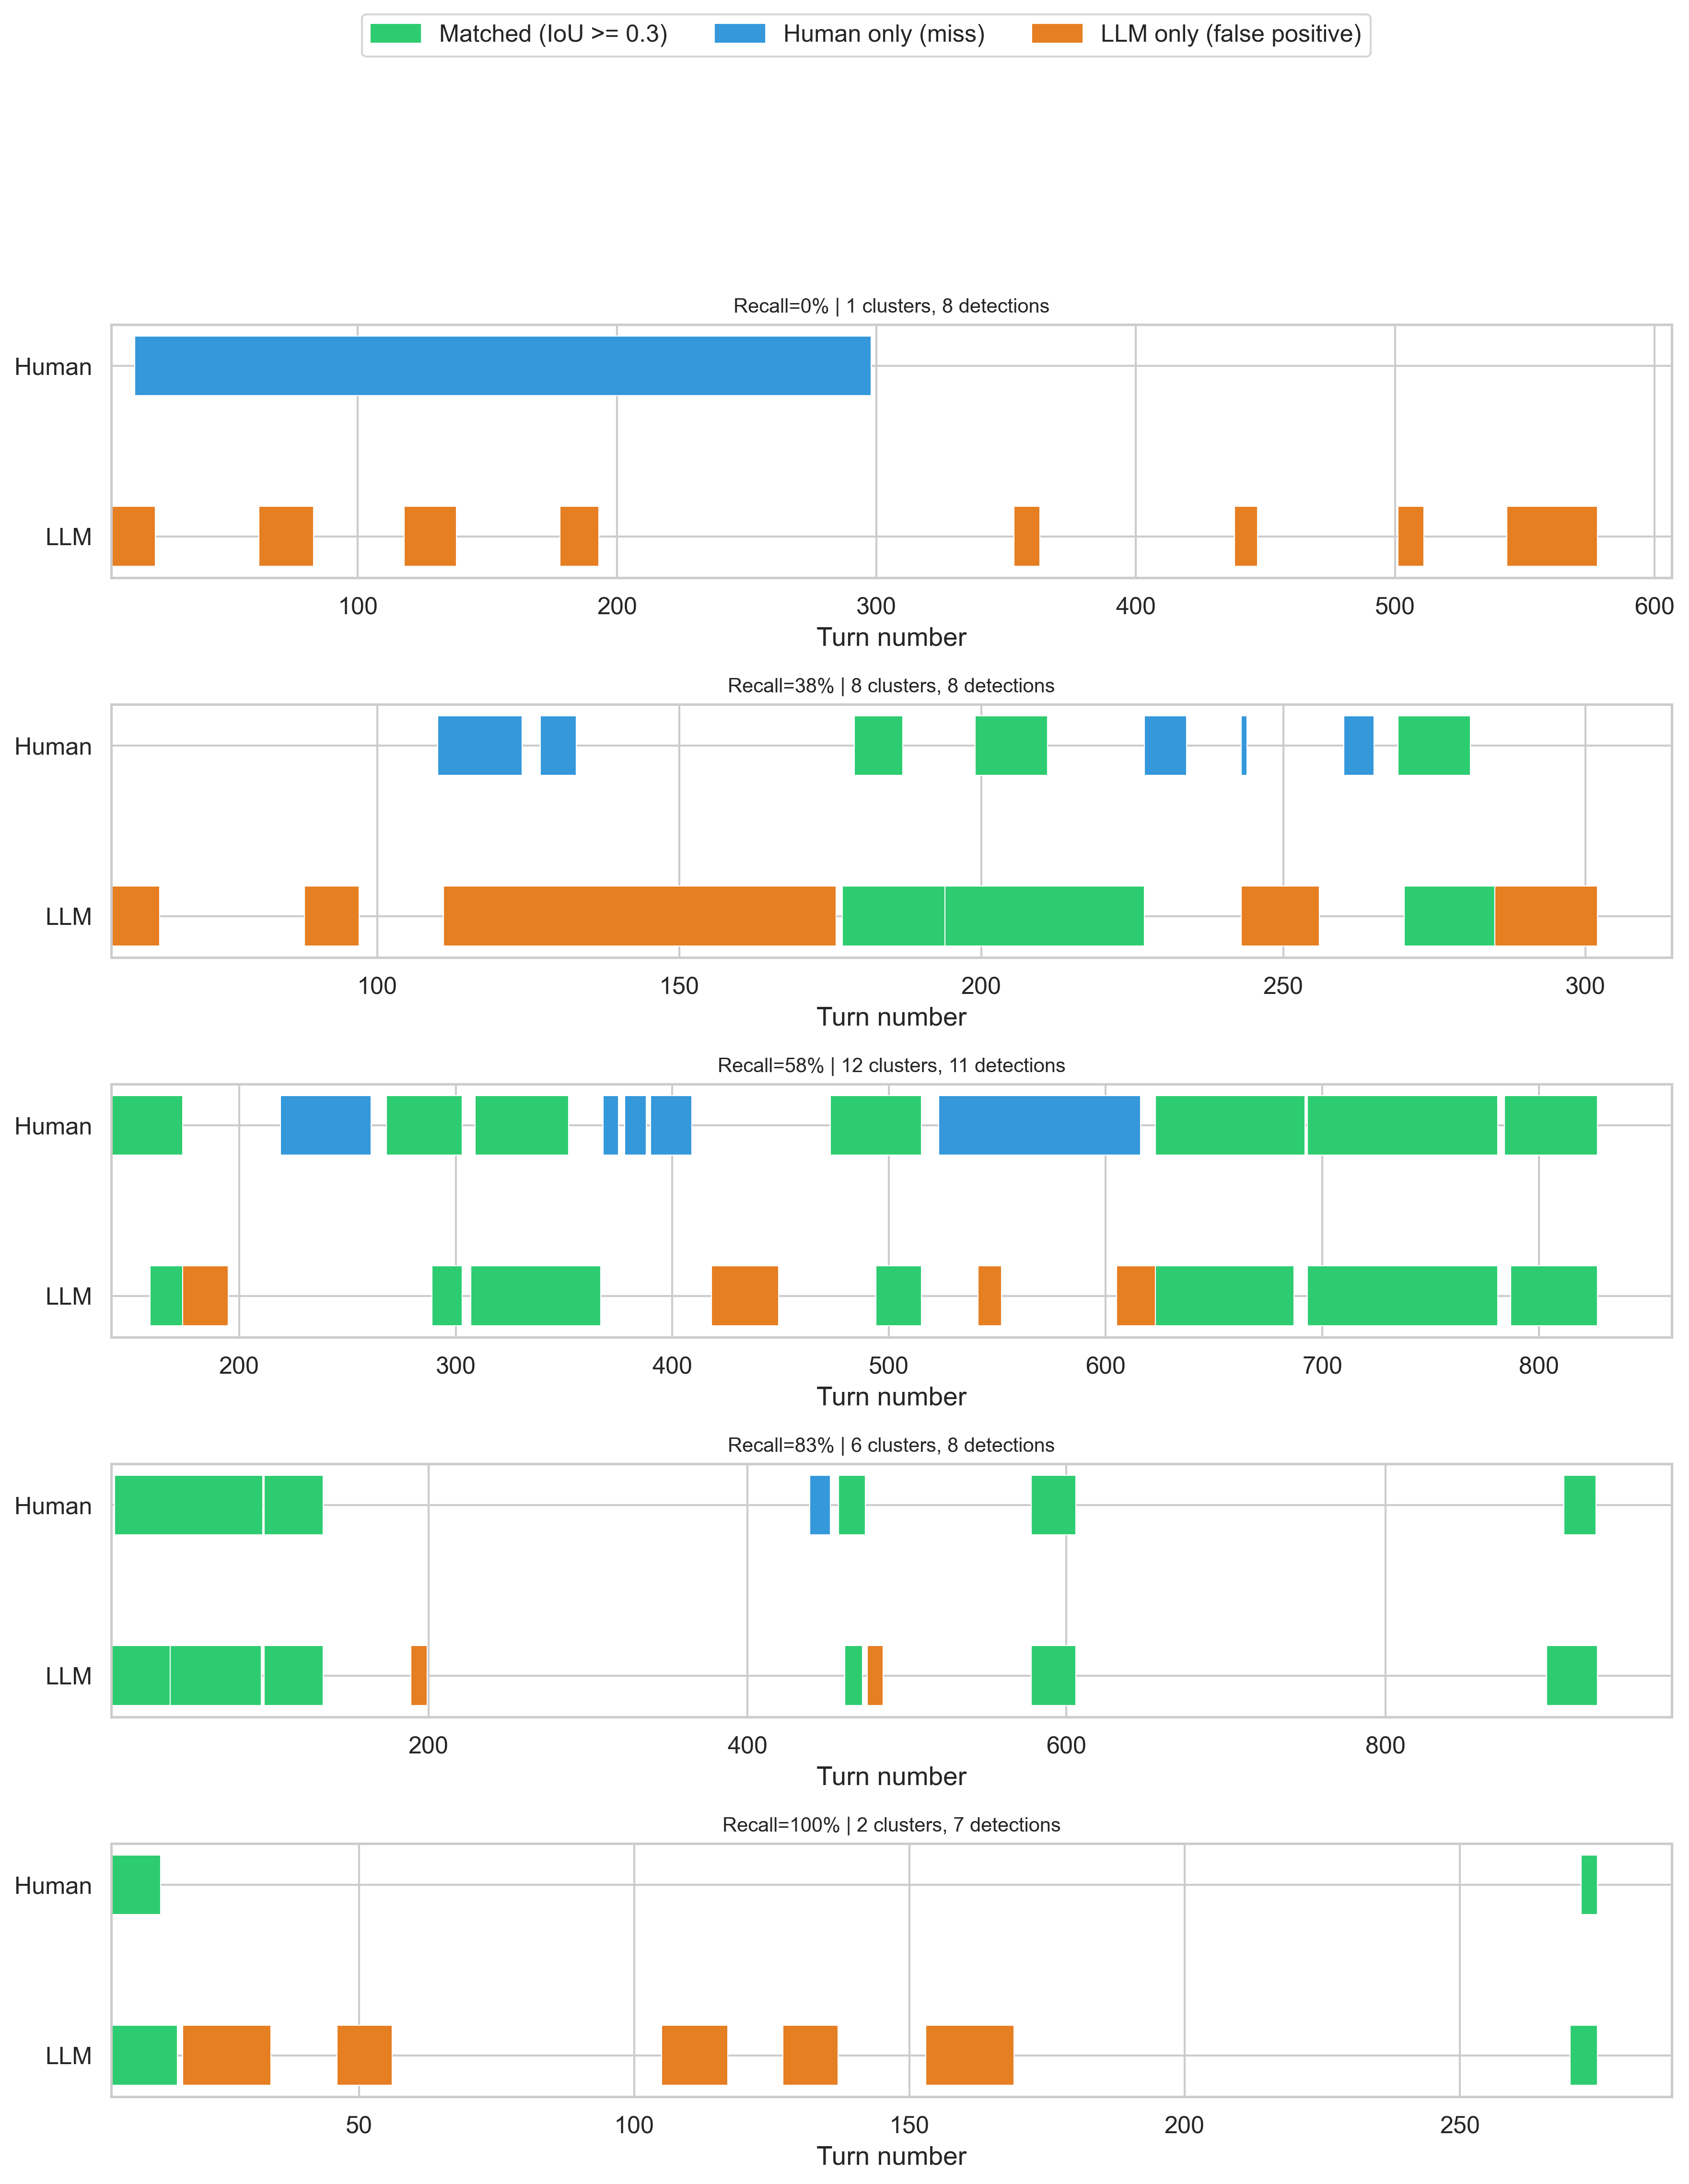
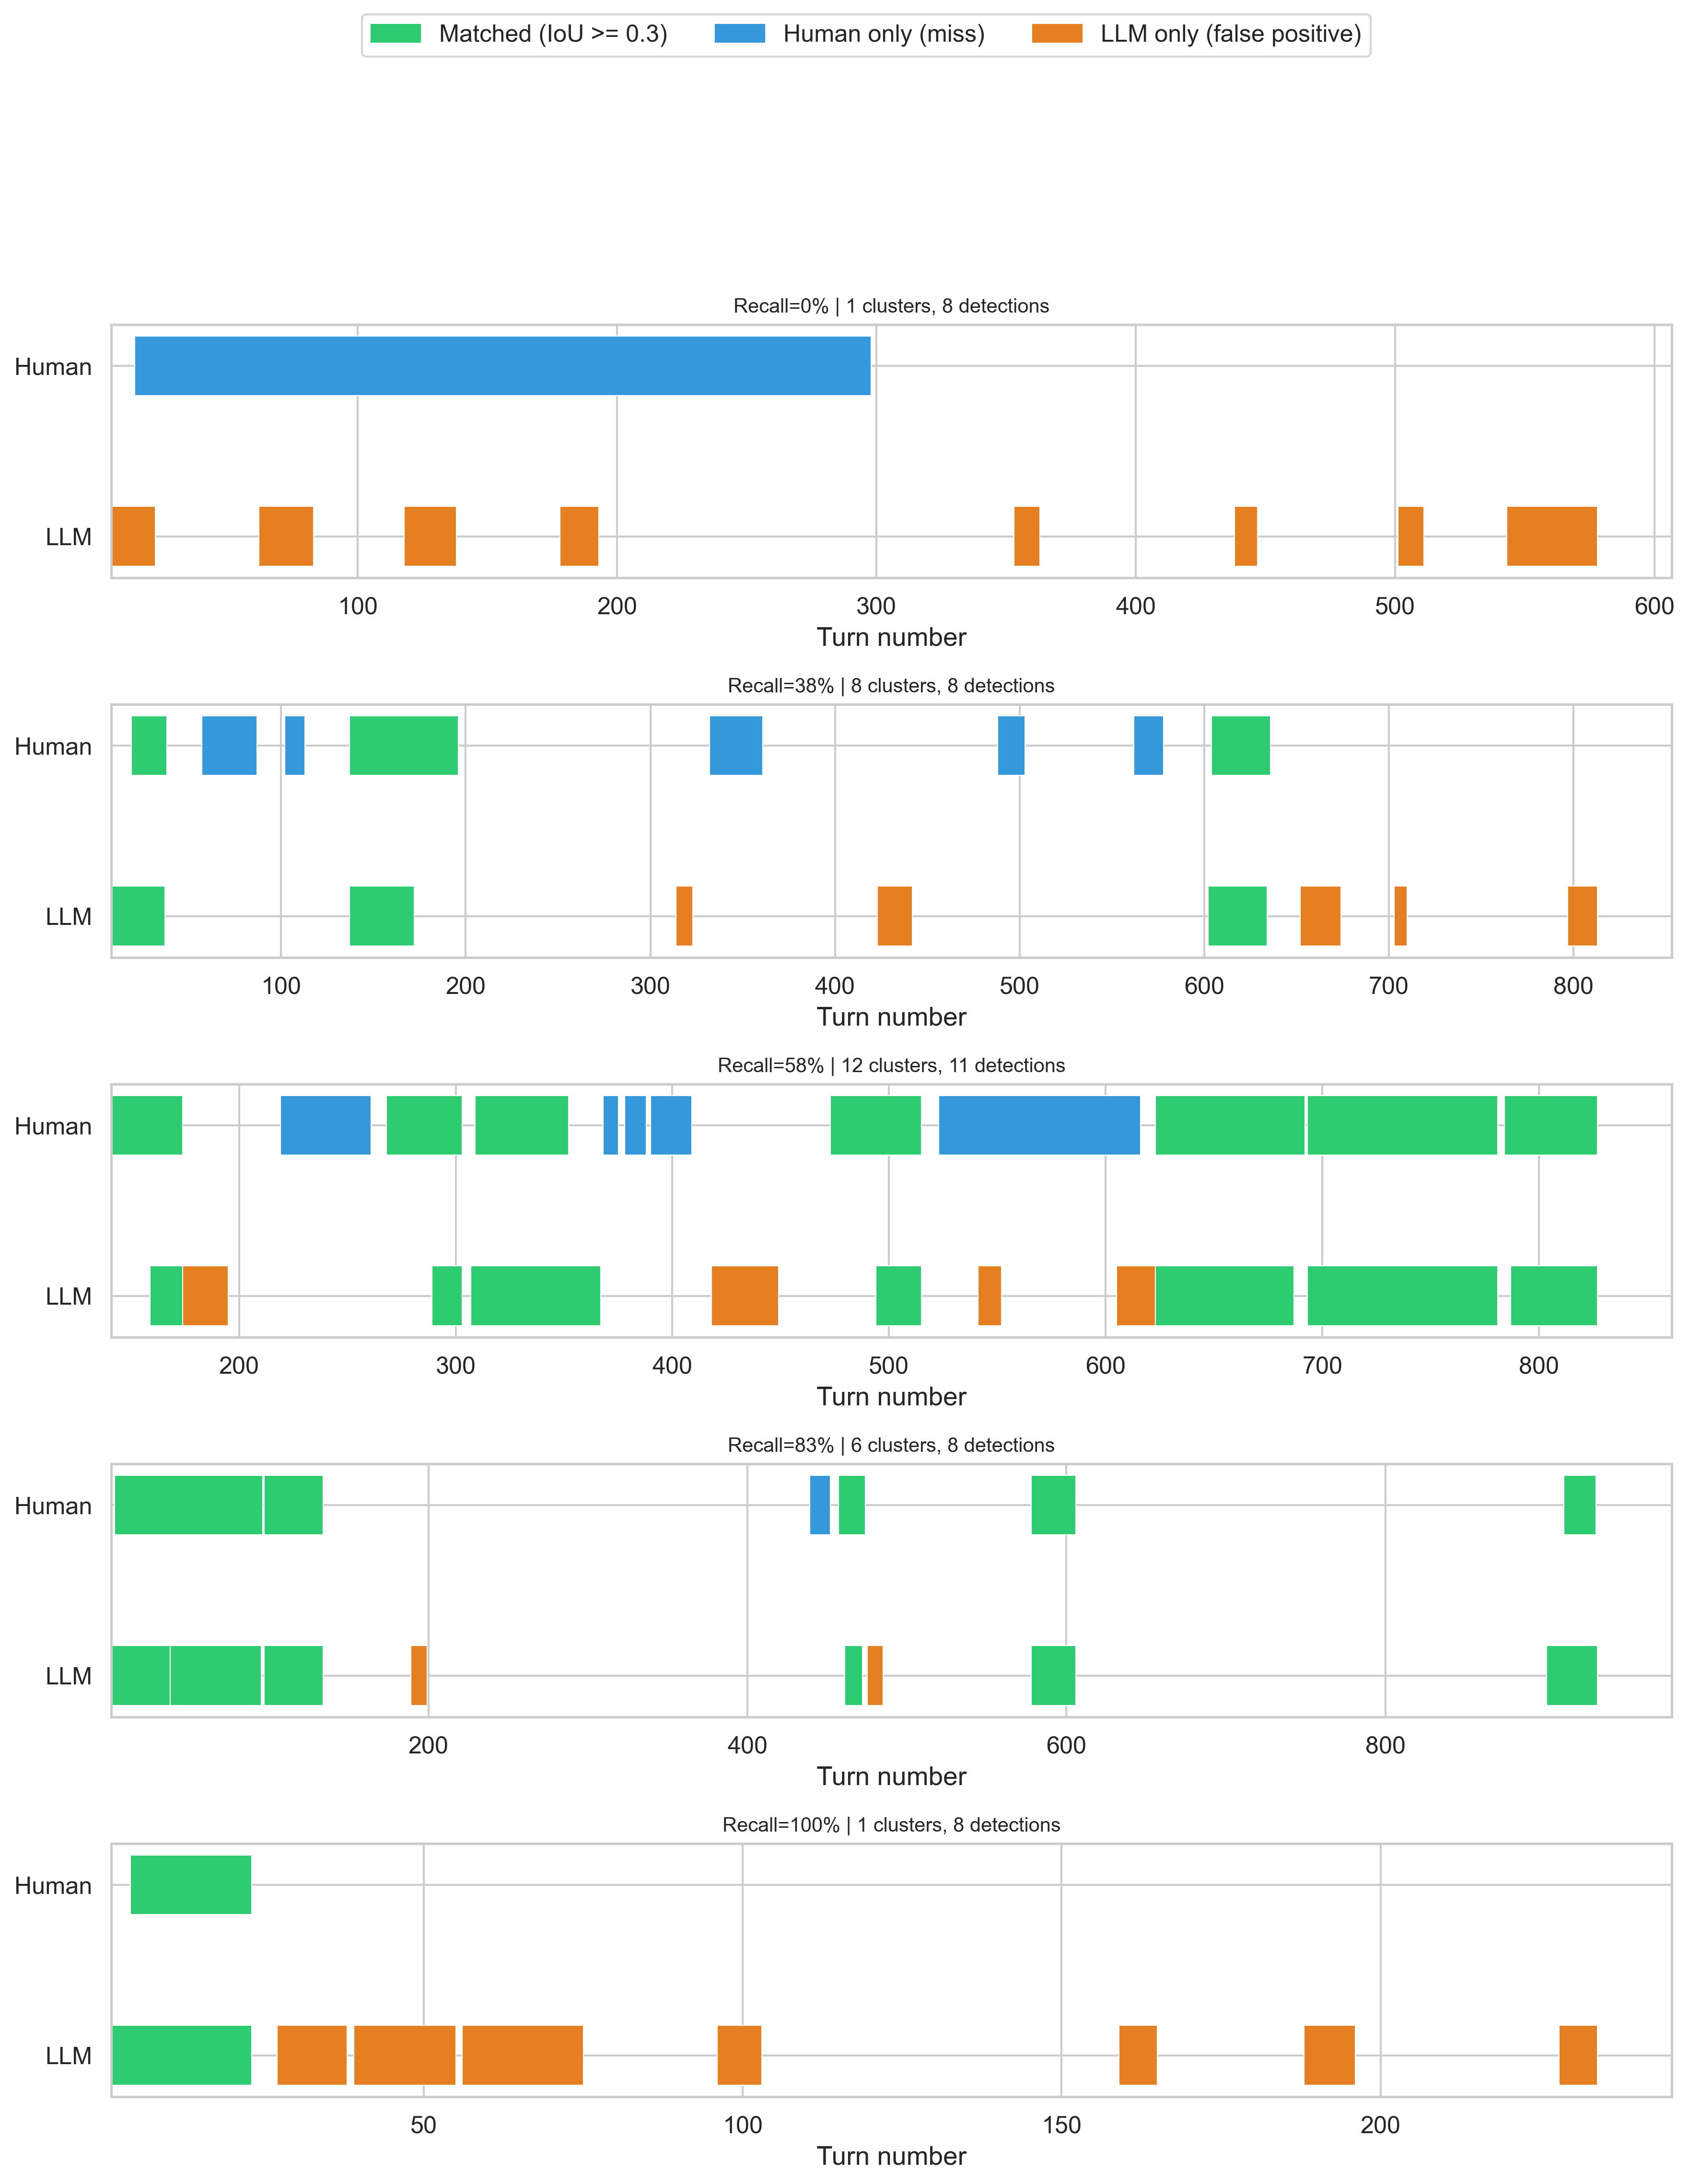
validation: rename gold mode, add combined rows, add full pipeline profiles
- Rename "Gold Mode" -> "Human-Detected Moments" throughout for clarity
- Add Combined row to all per-type breakdown tables
- Add Full Pipeline by Annotator Profile section (generic prompt
  evaluated against each annotator group's GT, clearly distinguished
  from per-profile calibrated Human-Detected Moments results)
- Fix all user-facing "gold" references to descriptive names

diff --git a/validation/_generate_notebooks.py b/validation/_generate_notebooks.py
@@ -372,14 +372,14 @@ Human experts made the same judgments on the same moments. **The question: does 
 
 We present two measurements, because they answer different questions:
 
-| | **Gold mode** | **Full pipeline** |
+| | **Human-detected moments** | **Full pipeline** |
 |---|---|---|
-| **What it is** | LLM annotates the *exact same moments* humans marked | LLM detects its own moments, then annotates those |
-| **What it measures** | Annotation quality in isolation | End-to-end pipeline quality |
+| **What it is** | LLM annotates the *exact same moments* humans marked (same turn ranges) | LLM detects its own moments, then annotates those |
+| **What it measures** | Annotation quality in isolation — no detection noise | End-to-end pipeline quality |
 | **IoU matching** | None needed (turn ranges are identical) | IoU >= 0.3 to match LLM detections to human clusters |
 | **N (moments compared)** | All human moments (~1,600) | Only moments the LLM also found (~600) |
 
-Gold mode is the clean measurement — it isolates annotation quality from detection accuracy. Full pipeline is the real-world measurement — what you'd actually get if you ran the system end to end.
+**Human-detected moments** is the clean measurement — it tells us how good the LLM is at judging effectiveness when it's looking at the right moment. **Full pipeline** is the real-world measurement — what you'd actually get if you ran the system end to end, including detection errors.
 
 ## How we measure agreement
 
@@ -442,12 +442,12 @@ for label, ids in [('Dev', dev_ids), ('Held-out', ho_ids), ('Combined', all_eval
           f'from {ceil_convs}/{len(ids)} conversations')
 """))
 
-    # ---- Gold mode ----
+    # ---- Human-detected moments ----
 
     c.append(md("""
-## Gold Mode: Annotation Quality in Isolation
+## Human-Detected Moments: Annotation Quality in Isolation
 
-In gold mode, the LLM annotates the *exact same moments* that humans marked — same turn ranges, same annotation types. There's no detection step and no IoU matching needed. This isolates annotation quality from detection accuracy.
+In human-detected moments, the LLM annotates the *exact same moments* that humans marked — same turn ranges, same annotation types. There's no detection step and no IoU matching needed. This isolates annotation quality from detection accuracy.
 
 Every human-annotated moment gets an LLM label, so N is the full ground truth count.
 """))
@@ -474,18 +474,19 @@ else:
         })
 
     df_gold = pd.DataFrame(rows).set_index('')
-    print(f'v5 Gold Mode: LLM labels vs human labels on identical moments\\n')
+    print(f'v5 Human-Detected Moments: LLM labels vs human labels on identical moments\\n')
     print(f'No IoU matching — turn ranges are the same.\\n')
     df_gold
 """))
 
     c.append(md("""
-### Gold Mode by Annotation Type
+### Human-Detected Moments by Annotation Type
 """))
 
     c.append(code("""
 if v5_gold:
     type_rows = []
+    # Per-type
     for ann_type in ANNOTATION_TYPES:
         matches = []
         for cid in sorted(all_eval_ids):
@@ -501,13 +502,27 @@ if v5_gold:
                 '3-Way Kappa': f"{eff['three_way_kappa']:.4f}",
                 'Binary Kappa': f"{eff['binary_kappa']:.4f}",
             })
+    # Combined row
+    all_gold_matches = []
+    for cid in sorted(all_eval_ids):
+        all_gold_matches.extend(match_gold_direct(
+            ground_truth['conversations'][cid]['key_moments'],
+            v5_gold.get(cid, [])))
+    if all_gold_matches:
+        eff_all = compute_effectiveness_metrics(all_gold_matches)
+        type_rows.append({
+            '': 'Combined',
+            'N': eff_all['total_matched'],
+            '3-Way Kappa': f"{eff_all['three_way_kappa']:.4f}",
+            'Binary Kappa': f"{eff_all['binary_kappa']:.4f}",
+        })
     df_gold_type = pd.DataFrame(type_rows).set_index('')
-    print('Gold Mode by Type (combined dev + held-out)\\n')
+    print('Human-Detected Moments by Type (combined dev + held-out)\\n')
     df_gold_type
 """))
 
     c.append(md("""
-### Gold Mode by Annotator Profile
+### Human-Detected Moments by Annotator Profile
 
 Human annotators cluster into three profiles by labeling tendency. The LLM uses **different annotation prompts calibrated to each profile** — the generous prompt was iterated to match generous annotators' standards, etc. This is not filtering the same output; each profile has its own prompt that was tuned to that group's labeling patterns.
 
@@ -568,7 +583,7 @@ for arch in ARCH_NAMES:
 
 if arch_rows:
     df_arch = pd.DataFrame(arch_rows).set_index('')
-    print('\\nGold Mode by Annotator Profile (profile-calibrated prompts)\\n')
+    print('\\nHuman-Detected Moments by Annotator Profile (profile-calibrated prompts)\\n')
     df_arch
 """))
 
@@ -633,9 +648,67 @@ if v5_anns:
                 '3-Way Kappa': f"{eff['three_way_kappa']:.4f}",
                 'Binary Kappa': f"{eff['binary_kappa']:.4f}",
             })
+    # Combined row
+    all_full_matches = []
+    for cid in sorted(all_eval_ids):
+        hm = ground_truth['conversations'][cid]['key_moments']
+        ht = {m.get('annotation_type') for m in hm}
+        llm = [a for a in v5_anns.get(cid, []) if a.get('annotation_type') in ht]
+        all_full_matches.extend(match_for_effectiveness(hm, llm, iou_threshold=IOU))
+    if all_full_matches:
+        eff_all = compute_effectiveness_metrics(all_full_matches)
+        type_rows.append({
+            '': 'Combined',
+            'N': eff_all['total_matched'],
+            '3-Way Kappa': f"{eff_all['three_way_kappa']:.4f}",
+            'Binary Kappa': f"{eff_all['binary_kappa']:.4f}",
+        })
     df_full_type = pd.DataFrame(type_rows).set_index('')
     print(f'Full Pipeline by Type (combined, IoU >= {IOU})\\n')
     df_full_type
+"""))
+
+    c.append(md("""
+### Full Pipeline by Annotator Profile
+
+Unlike the human-detected moments section above (where each profile has its own calibrated LLM prompt), the full pipeline used a **single generic prompt** for all annotations. Here we compare that same LLM output against each annotator group's ground truth separately. This answers: "how does the end-to-end pipeline's output look from each annotator group's perspective?" — it's not a claim about per-profile calibration.
+"""))
+
+    c.append(code("""
+if v5_anns:
+    from annotator.eval.eval import load_annotator_archetype_ids, filter_ground_truth_by_archetype
+    ARCH_NAMES = ['generous', 'balanced', 'demanding']
+
+    arch_rows = []
+    for arch in ARCH_NAMES:
+        try:
+            arch_ids = load_annotator_archetype_ids(arch)
+            arch_gt = filter_ground_truth_by_archetype(
+                {'conversations': {c: ground_truth['conversations'][c] for c in all_eval_ids}},
+                arch_ids)
+        except Exception:
+            continue
+
+        matches = []
+        for cid, conv_data in arch_gt['conversations'].items():
+            hm = conv_data['key_moments']
+            ht = {m.get('annotation_type') for m in hm}
+            llm = [a for a in v5_anns.get(cid, []) if a.get('annotation_type') in ht]
+            matches.extend(match_for_effectiveness(hm, llm, iou_threshold=IOU))
+
+        if matches:
+            eff = compute_effectiveness_metrics(matches)
+            arch_rows.append({
+                '': arch.title(),
+                'N': eff['total_matched'],
+                '3-Way Kappa': f"{eff['three_way_kappa']:.4f}",
+                'Binary Kappa': f"{eff['binary_kappa']:.4f}",
+            })
+
+    if arch_rows:
+        df_full_arch = pd.DataFrame(arch_rows).set_index('')
+        print(f'Full Pipeline by Annotator Profile (generic prompt, IoU >= {IOU})\\n')
+        df_full_arch
 """))
 
     # ---- Comparison summary ----
@@ -656,7 +729,7 @@ ceil = compute_human_ceiling({'conversations': {
     c: ground_truth['conversations'][c] for c in all_eval_ids
 }})
 
-# Gold mode combined
+# Human-detected moments combined
 gold_matches = []
 if v5_gold:
     for cid in sorted(all_eval_ids):
@@ -680,7 +753,7 @@ rows = [
      '3-Way Kappa': f"{ceil['three_way_kappa']:.4f}",
      'N': f"{ceil['overlapping_pairs']} pairs (from 34/195 convs)",
      'Matching': 'IoU >= 0.3 between annotators'},
-    {'': 'LLM (gold mode)',
+    {'': 'LLM (human-detected moments)',
      '3-Way Kappa': f"{gold_eff.get('three_way_kappa', 0):.4f}",
      'N': f"{gold_eff.get('total_matched', 0)} moments",
      'Matching': 'Exact (same turn ranges)'},
@@ -702,7 +775,7 @@ df_summary
 
 The confusion matrix shows which labels get confused. Disagreements at the effective/partial boundary are expected ambiguity. Effective/ineffective confusion would indicate fundamental miscalibration.
 
-Using gold mode (n is larger and there's no detection noise).
+Using human-detected moments (n is larger and there's no detection noise).
 """))
 
     c.append(code("""
@@ -724,7 +797,7 @@ if gold_matches:
                     ax=ax, vmin=0, vmax=1, cbar=False)
         ax.set_xlabel('LLM Label')
         ax.set_ylabel('Human Label')
-        ax.set_title(f'Gold Mode Confusion Matrix (n={eff["three_way_n"]})')
+        ax.set_title(f'Human-Detected Moments Confusion Matrix (n={eff["three_way_n"]})')
         plt.tight_layout()
         fig.savefig(FIGURES_DIR / 'confusion_matrices.png')
         fig.savefig(FIGURES_DIR / 'confusion_matrices.pdf')
@@ -742,7 +815,7 @@ The prompts were iterated on the development set. If held-out performance is com
     c.append(code("""
 rows = []
 for mode_label, match_fn, data_source in [
-    ('Gold mode', 'gold', v5_gold),
+    ('Human-detected moments', 'gold', v5_gold),
     ('Full pipeline', 'full', v5_anns),
 ]:
     if data_source is None:
@@ -779,7 +852,7 @@ df_splits
 
 All results use v5 prompts. IoU threshold is 0.3 everywhere it's used.
 
-**Gold mode** (clean measurement, n~1,600): The LLM's effectiveness labels agree with human labels at 3-way kappa ~0.34. This is computed on every human-annotated moment with no detection noise.
+**Human-detected moments** (clean measurement, n~1,600): The LLM's effectiveness labels agree with human labels at 3-way kappa ~0.34. This is computed on every human-annotated moment with no detection noise.
 
 **Full pipeline** (end-to-end, n~600): The LLM detects and labels moments, achieving 3-way kappa ~0.32 on the subset of moments both the LLM and humans found.
 